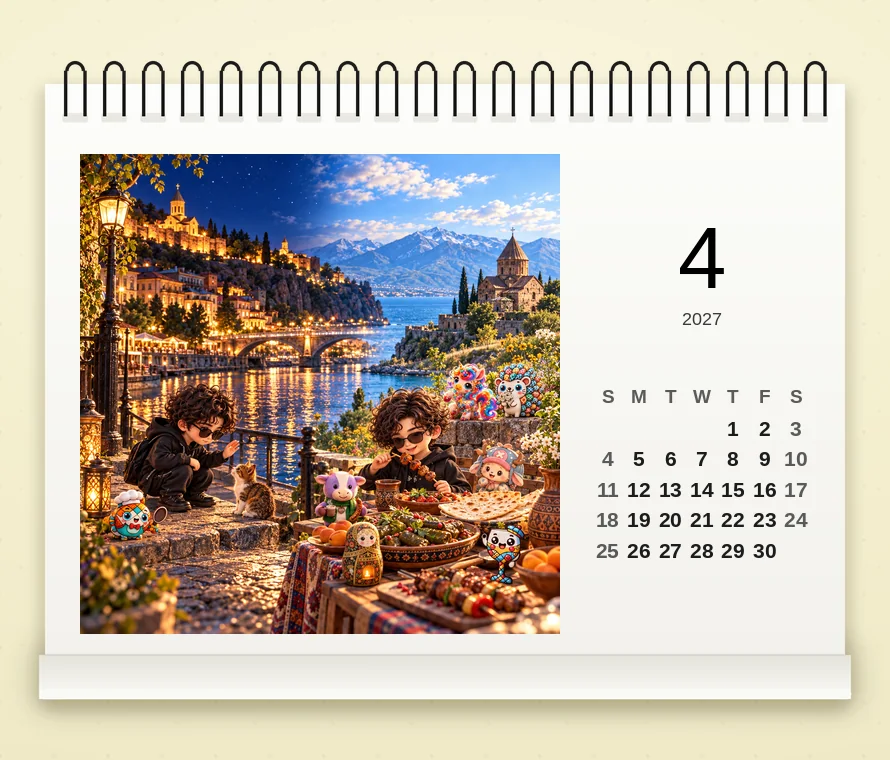
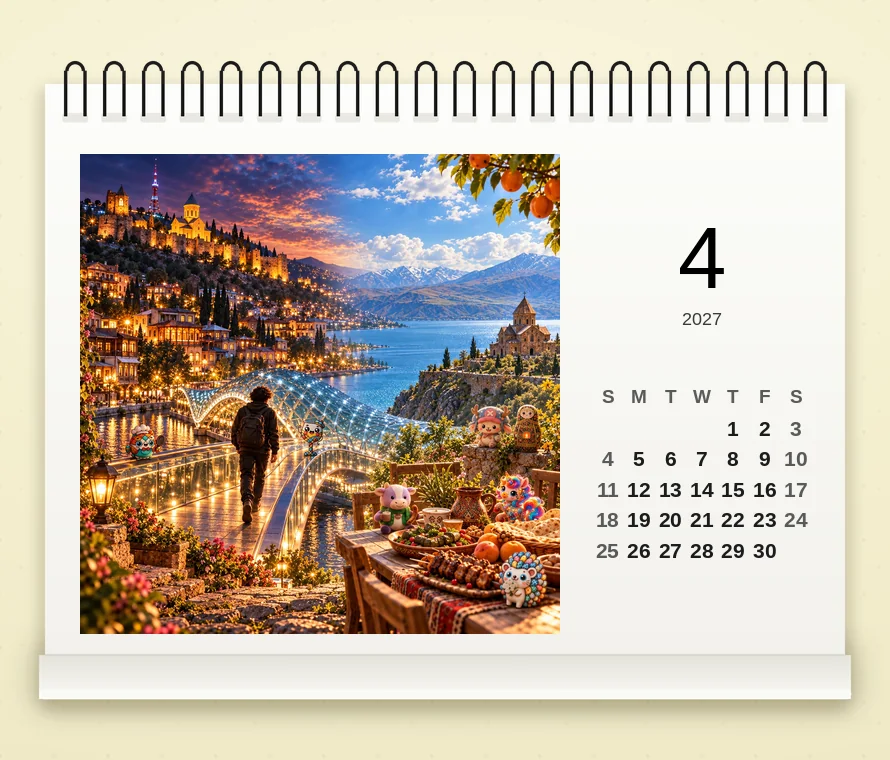
カレンダーの4月を、平和橋の夜景で3案描き直して並べる
#786 のレビューで、4月は「a 寄りで何パターンか。川の橋の上から平和橋などの
夜景を見たはず。猫はいない」と言われた。トビリシの夜を平和橋の夜景に替え、
猫を消して、構図違いを3枚作った。決まるまでは面に A〜C案として3枚並べる。

Claude-Session: https://claude.ai/code/session_01SyiW4Lu1zu7mPt5z6REGQ6

diff --git a/site/content/goods.ts b/site/content/goods.ts
@@ -392,7 +392,15 @@ export const CAL_MONTHS: CalMonth[] = [
     picks: [
       {
         src: "/goods/calendar/04-a.webp",
-        alt: "左は夜の川と光る橋のそばで猫に手を振るあやと、右は昼の湖のほとりで料理を食べるあやと。まわりに島の住人たち",
+        alt: "光る平和橋を渡るあやとの後ろ姿。左は夜のクラ川と丘の上の教会、右は昼の湖と修道院、手前に料理のテーブルと島の住人たち",
+      },
+      {
+        src: "/goods/calendar/04-b.webp",
+        alt: "欄干にもたれて、夜の川と光る平和橋を眺めるあやとの後ろ姿。右へ行くほど昼になり、湖と修道院と料理のテーブル、まわりに島の住人たち",
+      },
+      {
+        src: "/goods/calendar/04-c.webp",
+        alt: "平和橋の光るガラスの床を、明るい右の湖と料理のほうへ歩き出すあやとの後ろ姿。左は夜の川と旧市街、まわりに島の住人たち",
       },
     ],
   },
